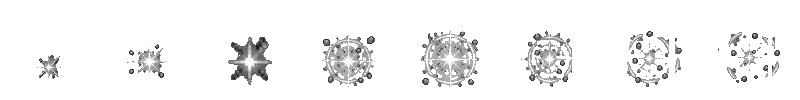
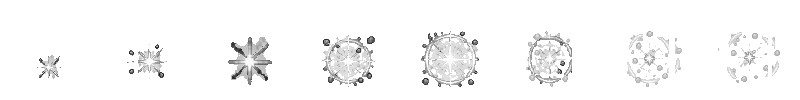
dungeon10 fix

diff --git a/src/three/finalMap/finalMapLayout.ts b/src/three/finalMap/finalMapLayout.ts
@@ -1,6 +1,7 @@
 import {
   BOSS_CHARGING_MOUTH_PX,
   DENEB_GUARD_SHEET,
+  FINAL_MAP_BODY_COLUMNS,
   FINAL_MAP_SOURCE_BOUNDS,
   type SpriteSourceBounds,
 } from "../../game/dungeon10/dungeon10Assets";
@@ -21,7 +22,11 @@ export type FinalMapPartyId = "theo" | "luna" | "karp" | "aron" | "deneb";
 /** Left → right order on the ground line. */
 export const FINAL_MAP_PARTY_ORDER: readonly FinalMapPartyId[] = ["theo", "luna", "karp", "aron", "deneb"];
 
-/** Visible (alpha-box) height in world units: the only per-character display choice. */
+/**
+ * Visible (alpha-box) height in world units before the party scale. The boss
+ * value is its final size; the party values are multiplied by
+ * FINAL_MAP_PARTY_SCALE.
+ */
 export const FINAL_MAP_VISIBLE_HEIGHT: Readonly<Record<FinalMapPartyId | "boss", number>> = {
   theo: 2.55,
   luna: 2.45,
@@ -31,8 +36,33 @@ export const FINAL_MAP_VISIBLE_HEIGHT: Readonly<Record<FinalMapPartyId | "boss",
   boss: 4.7,
 };
 
-const PARTY_GAP = 0.06;
-const BOSS_GAP = 0.75;
+/** Party display scale relative to the first Final map version (18% smaller). */
+export const FINAL_MAP_PARTY_SCALE = 0.82;
+
+/** View width at the base 16:9 composition (camera centred on x = 0). */
+export const FINAL_MAP_BASE_VIEW_WIDTH = FINAL_MAP_BASE_VIEW_HEIGHT * (16 / 9);
+
+/** Horizontal share of the 16:9 view the packed party occupies (left edge → right edge). */
+export const FINAL_MAP_PARTY_VIEW_RANGE = [0.08, 0.46] as const;
+
+/**
+ * World X of the devourer's visible left edge. It equals the value of the first
+ * Final map version, so the boss keeps its right-hand position and size.
+ */
+export const FINAL_MAP_BOSS_VISIBLE_LEFT = 3.321974573718448;
+
+/** Minimum clear space between neighbouring body columns (world units). */
+const MIN_BODY_GAP = 0.08;
+
+/**
+ * Clear space between Deneb's visible right edge and the left-most pixel of
+ * the barrier arc (world units), so the shield stands in front of her body
+ * without touching it.
+ */
+export const FINAL_MAP_BARRIER_CLEARANCE = 0.12;
+
+/** Barrier centre height as a fraction of Deneb's visible height (raised if the shield would cut the ground). */
+const BARRIER_HEIGHT_RATIO = 0.6;
 
 export type PlacedSprite = {
   /** World units per source pixel (uniform on X and Y). */
@@ -86,15 +116,39 @@ export type FinalMapLayout = {
 };
 
 export function createFinalMapLayout(): FinalMapLayout {
-  let cursor = 0;
+  // 1. Scale the party (uniform per character) and measure body columns.
+  const scaled = FINAL_MAP_PARTY_ORDER.map((id) => {
+    const bounds = FINAL_MAP_SOURCE_BOUNDS[id];
+    const [left, top, right, bottom] = bounds.alphaBox;
+    const unitsPerPixel = (FINAL_MAP_VISIBLE_HEIGHT[id] * FINAL_MAP_PARTY_SCALE) / (bottom - top + 1);
+    const [bodyLeft, bodyRight] = FINAL_MAP_BODY_COLUMNS[id];
+    return {
+      id,
+      unitsPerPixel,
+      // Distances measured from the visible left edge.
+      bodyStart: (bodyLeft - left) * unitsPerPixel,
+      bodyEnd: (bodyRight + 1 - left) * unitsPerPixel,
+      visibleWidth: (right + 1 - left) * unitsPerPixel,
+    };
+  });
+  // 2. Pack bodies left → right with one equal gap so the party fills the target range.
+  const viewLeft = -FINAL_MAP_BASE_VIEW_WIDTH / 2;
+  const partyLeft = viewLeft + FINAL_MAP_BASE_VIEW_WIDTH * FINAL_MAP_PARTY_VIEW_RANGE[0];
+  const partyRight = viewLeft + FINAL_MAP_BASE_VIEW_WIDTH * FINAL_MAP_PARTY_VIEW_RANGE[1];
+  const first = scaled[0]!;
+  const last = scaled[scaled.length - 1]!;
+  const bodiesWidth = scaled.reduce((sum, entry) => sum + (entry.bodyEnd - entry.bodyStart), 0);
+  const fixedWidth = first.bodyStart + bodiesWidth + (last.visibleWidth - last.bodyEnd);
+  const bodyGap = Math.max(MIN_BODY_GAP, (partyRight - partyLeft - fixedWidth) / (scaled.length - 1));
   const party = {} as Record<FinalMapPartyId, PlacedSprite>;
-  for (const id of FINAL_MAP_PARTY_ORDER) {
-    const placed = placeSprite(FINAL_MAP_SOURCE_BOUNDS[id], FINAL_MAP_VISIBLE_HEIGHT[id], cursor);
-    party[id] = placed;
-    cursor = placed.visibleRight + PARTY_GAP;
+  let bodyCursor = partyLeft + first.bodyStart;
+  for (const entry of scaled) {
+    const visibleLeft = bodyCursor - entry.bodyStart;
+    party[entry.id] = placeSprite(FINAL_MAP_SOURCE_BOUNDS[entry.id], 0, visibleLeft, FINAL_MAP_GROUND_Y, entry.unitsPerPixel);
+    bodyCursor = visibleLeft + entry.bodyEnd + bodyGap;
   }
-  const bossLeft = party.deneb.visibleRight + BOSS_GAP;
-  const bossStanding = placeSprite(FINAL_MAP_SOURCE_BOUNDS.bossStanding, FINAL_MAP_VISIBLE_HEIGHT.boss, bossLeft);
+  // 3. The devourer keeps its size and position.
+  const bossStanding = placeSprite(FINAL_MAP_SOURCE_BOUNDS.bossStanding, FINAL_MAP_VISIBLE_HEIGHT.boss, FINAL_MAP_BOSS_VISIBLE_LEFT);
   // Same canvas size and the same scale: keep the plane's X, re-anchor the feet.
   const chargingLeft = bossStanding.centerX - bossStanding.planeWidth / 2
     + FINAL_MAP_SOURCE_BOUNDS.bossCharging.alphaBox[0] * bossStanding.unitsPerPixel;
@@ -105,39 +159,50 @@ export function createFinalMapLayout(): FinalMapLayout {
     FINAL_MAP_GROUND_Y,
     bossStanding.unitsPerPixel,
   );
-  const contentLeft = party.theo.visibleLeft;
-  const contentRight = Math.max(bossStanding.visibleRight, bossCharging.visibleRight);
-  // Re-centre everything around x = 0.
-  const shift = -(contentLeft + contentRight) / 2;
-  const shiftSprite = (sprite: PlacedSprite): PlacedSprite => ({
-    ...sprite,
-    centerX: sprite.centerX + shift,
-    visibleLeft: sprite.visibleLeft + shift,
-    visibleRight: sprite.visibleRight + shift,
-  });
-  for (const id of FINAL_MAP_PARTY_ORDER) party[id] = shiftSprite(party[id]);
-  const standing = shiftSprite(bossStanding);
-  const charging = shiftSprite(bossCharging);
-  const chargingPlaneLeft = charging.centerX - charging.planeWidth / 2;
-  const chargingPlaneTop = charging.centerY + charging.planeHeight / 2;
+  // 4. Beam-source anchor: the charging devourer's mouth.
+  const chargingPlaneLeft = bossCharging.centerX - bossCharging.planeWidth / 2;
+  const chargingPlaneTop = bossCharging.centerY + bossCharging.planeHeight / 2;
   const mouth = {
-    x: chargingPlaneLeft + BOSS_CHARGING_MOUTH_PX.x * charging.unitsPerPixel,
-    y: chargingPlaneTop - BOSS_CHARGING_MOUTH_PX.y * charging.unitsPerPixel,
+    x: chargingPlaneLeft + BOSS_CHARGING_MOUTH_PX.x * bossCharging.unitsPerPixel,
+    y: chargingPlaneTop - BOSS_CHARGING_MOUTH_PX.y * bossCharging.unitsPerPixel,
   };
+  // 5. Barrier-impact anchor, in front of Deneb's right side. The VFX scale
+  //    depends on the anchor and the anchor on the scale (the arc must clear
+  //    Deneb and must not dip under the ground line), so a few fixed-point
+  //    steps settle both; they converge in well under 12 iterations.
   const deneb = party.deneb;
-  const barrier = {
-    x: deneb.visibleRight + 0.1,
-    y: FINAL_MAP_GROUND_Y + (deneb.visibleTop - FINAL_MAP_GROUND_Y) * 0.68,
-  };
+  const denebHeight = deneb.visibleTop - FINAL_MAP_GROUND_Y;
+  const arcLeftPx = DENEB_GUARD_SHEET.barrierPx.x - DENEB_GUARD_SHEET.barrierExtentPx.left;
+  const shieldHalfHeightPx = DENEB_GUARD_SHEET.barrierPx.y - DENEB_GUARD_SHEET.barrierExtentPx.top;
+  const barrier = { x: deneb.visibleRight + FINAL_MAP_BARRIER_CLEARANCE, y: FINAL_MAP_GROUND_Y + denebHeight * BARRIER_HEIGHT_RATIO };
+  for (let iteration = 0; iteration < 12; iteration += 1) {
+    const { scale } = solveSimilarity(mouth, barrier);
+    barrier.x = deneb.visibleRight + FINAL_MAP_BARRIER_CLEARANCE + arcLeftPx * scale;
+    barrier.y = Math.max(FINAL_MAP_GROUND_Y + denebHeight * BARRIER_HEIGHT_RATIO, FINAL_MAP_GROUND_Y + shieldHalfHeightPx * scale + 0.02);
+  }
+  const partyTop = Math.max(...FINAL_MAP_PARTY_ORDER.map((id) => party[id].visibleTop));
   return {
     party,
-    bossStanding: standing,
-    bossCharging: charging,
-    contentLeft: contentLeft + shift,
-    contentRight: contentRight + shift,
-    contentTop: Math.max(...FINAL_MAP_PARTY_ORDER.map((id) => party[id].visibleTop), standing.visibleTop, charging.visibleTop),
+    bossStanding,
+    bossCharging,
+    contentLeft: party.theo.visibleLeft,
+    contentRight: Math.max(bossStanding.visibleRight, bossCharging.visibleRight),
+    contentTop: Math.max(partyTop, bossStanding.visibleTop, bossCharging.visibleTop),
     mouth,
     barrier,
+  };
+}
+
+/** Uniform scale and rotation that map the sheet's barrier→beam vector onto barrier→mouth. */
+function solveSimilarity(mouth: { x: number; y: number }, barrier: { x: number; y: number }) {
+  const beam = { x: DENEB_GUARD_SHEET.beamStartPx.x - DENEB_GUARD_SHEET.frameWidth / 2, y: DENEB_GUARD_SHEET.frameHeight / 2 - DENEB_GUARD_SHEET.beamStartPx.y };
+  const shield = { x: DENEB_GUARD_SHEET.barrierPx.x - DENEB_GUARD_SHEET.frameWidth / 2, y: DENEB_GUARD_SHEET.frameHeight / 2 - DENEB_GUARD_SHEET.barrierPx.y };
+  const frameVector = { x: beam.x - shield.x, y: beam.y - shield.y };
+  const worldVector = { x: mouth.x - barrier.x, y: mouth.y - barrier.y };
+  return {
+    shield,
+    scale: Math.hypot(worldVector.x, worldVector.y) / Math.hypot(frameVector.x, frameVector.y),
+    rotation: Math.atan2(worldVector.y, worldVector.x) - Math.atan2(frameVector.y, frameVector.x),
   };
 }
 
@@ -156,19 +221,10 @@ export type GuardOverlayTransform = {
  * and the barrier centre in front of Deneb.
  */
 export function computeGuardOverlayTransform(layout: FinalMapLayout): GuardOverlayTransform {
-  const toFrame = (point: { x: number; y: number }) => ({
-    x: point.x - DENEB_GUARD_SHEET.frameWidth / 2,
-    y: DENEB_GUARD_SHEET.frameHeight / 2 - point.y,
-  });
-  const beam = toFrame(DENEB_GUARD_SHEET.beamStartPx);
-  const barrier = toFrame(DENEB_GUARD_SHEET.barrierPx);
-  const frameVector = { x: beam.x - barrier.x, y: beam.y - barrier.y };
-  const worldVector = { x: layout.mouth.x - layout.barrier.x, y: layout.mouth.y - layout.barrier.y };
-  const scale = Math.hypot(worldVector.x, worldVector.y) / Math.hypot(frameVector.x, frameVector.y);
-  const rotation = Math.atan2(worldVector.y, worldVector.x) - Math.atan2(frameVector.y, frameVector.x);
+  const { shield, scale, rotation } = solveSimilarity(layout.mouth, layout.barrier);
   const cos = Math.cos(rotation);
   const sin = Math.sin(rotation);
-  const rotated = { x: (barrier.x * cos - barrier.y * sin) * scale, y: (barrier.x * sin + barrier.y * cos) * scale };
+  const rotated = { x: (shield.x * cos - shield.y * sin) * scale, y: (shield.x * sin + shield.y * cos) * scale };
   return {
     scale,
     rotation,
@@ -188,11 +244,15 @@ export function guardFramePointToWorld(transform: GuardOverlayTransform, point: 
   };
 }
 
-/** View size for a viewport aspect: keeps the whole cast visible on narrow screens. */
+/**
+ * View for a viewport aspect. The camera stays centred on x = 0, so at 16:9
+ * every resolution shows the same composition (party at 8%~46%, boss on the
+ * right); narrower screens grow the view until the whole cast fits.
+ */
 export function computeFinalMapView(layout: FinalMapLayout, aspect: number) {
-  const contentWidth = layout.contentRight - layout.contentLeft + FINAL_MAP_SIDE_MARGIN * 2;
+  const halfContent = Math.max(Math.abs(layout.contentLeft), Math.abs(layout.contentRight)) + FINAL_MAP_SIDE_MARGIN;
   const safeAspect = Math.max(0.1, aspect);
-  const viewHeight = Math.max(FINAL_MAP_BASE_VIEW_HEIGHT, contentWidth / safeAspect);
+  const viewHeight = Math.max(FINAL_MAP_BASE_VIEW_HEIGHT, (halfContent * 2) / safeAspect);
   const viewWidth = viewHeight * safeAspect;
   const bottom = FINAL_MAP_GROUND_Y - viewHeight * FINAL_MAP_GROUND_FROM_BOTTOM;
   return {

diff --git a/src/dungeon10ContentChecks.ts b/src/dungeon10ContentChecks.ts
@@ -17,6 +17,8 @@ import {
   DUNGEON10_BOSS_NAME,
   DUNGEON10_MAX_SUPPORT_COUNT,
   DUNGEON10_SUPPORT_NPCS,
+  FINAL_MAP_BODY_COLUMNS,
+  FINAL_MAP_SOURCE_BOUNDS,
   getGuardFrameAt,
   getGuardFrameCell,
 } from "./game/dungeon10/dungeon10Assets";
@@ -41,8 +43,14 @@ import { changeItemQuantity } from "./game/inventory/inventoryState";
 import { supportsCrackedTiles } from "./three/dungeon/visuals/crackedTileResolver";
 import { Dungeon10BossRoomCollapse, createCrackData } from "./three/dungeon/Dungeon10BossRoomCollapse";
 import {
+  FINAL_MAP_BARRIER_CLEARANCE,
+  FINAL_MAP_BASE_VIEW_WIDTH,
+  FINAL_MAP_BOSS_VISIBLE_LEFT,
   FINAL_MAP_GROUND_Y,
   FINAL_MAP_PARTY_ORDER,
+  FINAL_MAP_PARTY_SCALE,
+  FINAL_MAP_PARTY_VIEW_RANGE,
+  FINAL_MAP_VISIBLE_HEIGHT,
   computeFinalMapView,
   computeGuardOverlayTransform,
   createFinalMapLayout,
@@ -322,6 +330,41 @@ function checkFinalLayout() {
     const view = computeFinalMapView(layout, aspect);
     assert(view.left <= layout.contentLeft && view.right >= layout.contentRight && view.top >= layout.contentTop && Math.abs(view.viewWidth / view.viewHeight - aspect) < 1e-9, `whole cast visible at aspect ${aspect.toFixed(2)}`);
   }
+
+  // Follow-up: smaller party packed on the left, boss unchanged, larger anchored VFX.
+  const PREVIOUS_GUARD_SCALE = 0.013041688678540692;
+  assert(FINAL_MAP_PARTY_SCALE >= 0.8 && FINAL_MAP_PARTY_SCALE <= 0.85, "party shrinks by 15~20%");
+  for (const id of FINAL_MAP_PARTY_ORDER) {
+    const placed = layout.party[id];
+    const [, top, , bottom] = FINAL_MAP_SOURCE_BOUNDS[id].alphaBox;
+    const shown = placed.visibleTop - placed.footY;
+    assert(Math.abs(shown - FINAL_MAP_VISIBLE_HEIGHT[id] * FINAL_MAP_PARTY_SCALE) < 1e-9, `${id} display height = previous × party scale`);
+    assert(Math.abs(placed.planeWidth / placed.planeHeight - FINAL_MAP_SOURCE_BOUNDS[id].width / FINAL_MAP_SOURCE_BOUNDS[id].height) < 1e-9, `${id} keeps its aspect (uniform scale)`);
+    assert(Math.abs(shown - (bottom - top + 1) * placed.unitsPerPixel) < 1e-9, `${id} uses one units-per-pixel on X and Y`);
+  }
+  assert(layout.bossStanding.visibleLeft === FINAL_MAP_BOSS_VISIBLE_LEFT && Math.abs(layout.bossStanding.visibleTop - FINAL_MAP_GROUND_Y - FINAL_MAP_VISIBLE_HEIGHT.boss) < 1e-9, "devourer keeps its previous position and height");
+  assert(Math.abs(layout.bossStanding.centerX - 5.714421207544392) < 1e-9 && Math.abs(layout.bossStanding.planeWidth - 4.838916256157636) < 1e-9, "devourer plane identical to the previous layout");
+  const base = computeFinalMapView(layout, 16 / 9);
+  assert(Math.abs(base.viewWidth - FINAL_MAP_BASE_VIEW_WIDTH) < 1e-9 && base.viewHeight === 10, "16:9 keeps the previous camera framing");
+  const ratio = (x: number) => (x - base.left) / base.viewWidth;
+  assert(ratio(layout.party.theo.visibleLeft) >= FINAL_MAP_PARTY_VIEW_RANGE[0] - 1e-9 && ratio(layout.party.deneb.visibleRight) <= FINAL_MAP_PARTY_VIEW_RANGE[1] + 1e-9, "party fits 8%~46% of the 16:9 view");
+  const bodies = FINAL_MAP_PARTY_ORDER.map((id) => {
+    const placed = layout.party[id];
+    const left = FINAL_MAP_SOURCE_BOUNDS[id].alphaBox[0];
+    const [bodyLeft, bodyRight] = FINAL_MAP_BODY_COLUMNS[id];
+    return [placed.visibleLeft + (bodyLeft - left) * placed.unitsPerPixel, placed.visibleLeft + (bodyRight + 1 - left) * placed.unitsPerPixel] as const;
+  });
+  const gaps = bodies.slice(1).map((body, index) => body[0] - bodies[index]![1]);
+  assert(gaps.every((gap) => gap >= 0.08 && Math.abs(gap - gaps[0]!) < 1e-9), "bodies never overlap and keep one equal gap");
+  const arcLeft = guardFramePointToWorld(transform, { x: DENEB_GUARD_SHEET.barrierExtentPx.left, y: DENEB_GUARD_SHEET.barrierPx.y });
+  assert(arcLeft.x - layout.party.deneb.visibleRight > FINAL_MAP_BARRIER_CLEARANCE * 0.9, "barrier arc stands clear in front of Deneb's right side");
+  const shieldBottom = guardFramePointToWorld(transform, { x: DENEB_GUARD_SHEET.barrierPx.x, y: DENEB_GUARD_SHEET.barrierPx.y + (DENEB_GUARD_SHEET.barrierPx.y - DENEB_GUARD_SHEET.barrierExtentPx.top) });
+  assert(shieldBottom.y >= FINAL_MAP_GROUND_Y - 0.15, "shield does not sink under the ground line");
+  const scaleRatio = transform.scale / PREVIOUS_GUARD_SCALE;
+  assert(scaleRatio > 1.4 && scaleRatio < 2.2, `VFX clearly larger than before (×${scaleRatio.toFixed(2)})`);
+  const clash = ratio(layout.barrier.x);
+  assert(clash > 0.4 && clash < 0.62, `clash lands near the screen centre (${(clash * 100).toFixed(1)}%)`);
+  assert(ratio(transform.frameCenterX - (DENEB_GUARD_SHEET.frameWidth / 2) * transform.scale) > 0 && ratio(transform.frameCenterX + (DENEB_GUARD_SHEET.frameWidth / 2) * transform.scale) < 1, "VFX frame stays inside the 16:9 view");
 }
 
 function checkCredits() {

diff --git a/src/game/dungeon10/dungeon10Assets.ts b/src/game/dungeon10/dungeon10Assets.ts
@@ -60,6 +60,20 @@ export const FINAL_MAP_SOURCE_BOUNDS: Readonly<Record<
   bossCharging: { width: 1254, height: 1254, alphaBox: [6, 2, 1253, 1253] },
 };
 
+/**
+ * Horizontal body columns [left, right] of each party PNG: columns whose
+ * alpha >= 32 coverage is at least 35% of the visible height. Weapons, spear
+ * shafts and loose hair are thin and fall outside, so these columns are what
+ * must never overlap when the party is packed side by side.
+ */
+export const FINAL_MAP_BODY_COLUMNS: Readonly<Record<"theo" | "luna" | "karp" | "aron" | "deneb", readonly [number, number]>> = {
+  theo: [354, 871],
+  luna: [49, 713],
+  karp: [125, 888],
+  aron: [274, 949],
+  deneb: [41, 369],
+};
+
 /** Mouth (beam origin) of the charging devourer, in source pixels (y down). */
 export const BOSS_CHARGING_MOUTH_PX = { x: 384, y: 594 } as const;
 
@@ -84,6 +98,8 @@ export const DENEB_GUARD_SHEET = {
   beamStartPx: { x: 320, y: 89 },
   /** Centre of the cyan barrier (median of its pixels, frame pixels, y down). */
   barrierPx: { x: 147, y: 90 },
+  /** Extent of the cyan barrier over all 24 frames (frame pixels, y down). */
+  barrierExtentPx: { left: 96, top: 6, bottom: 173 },
 } as const;
 
 /** Index → [column, row] in left→right, top→bottom order. */
